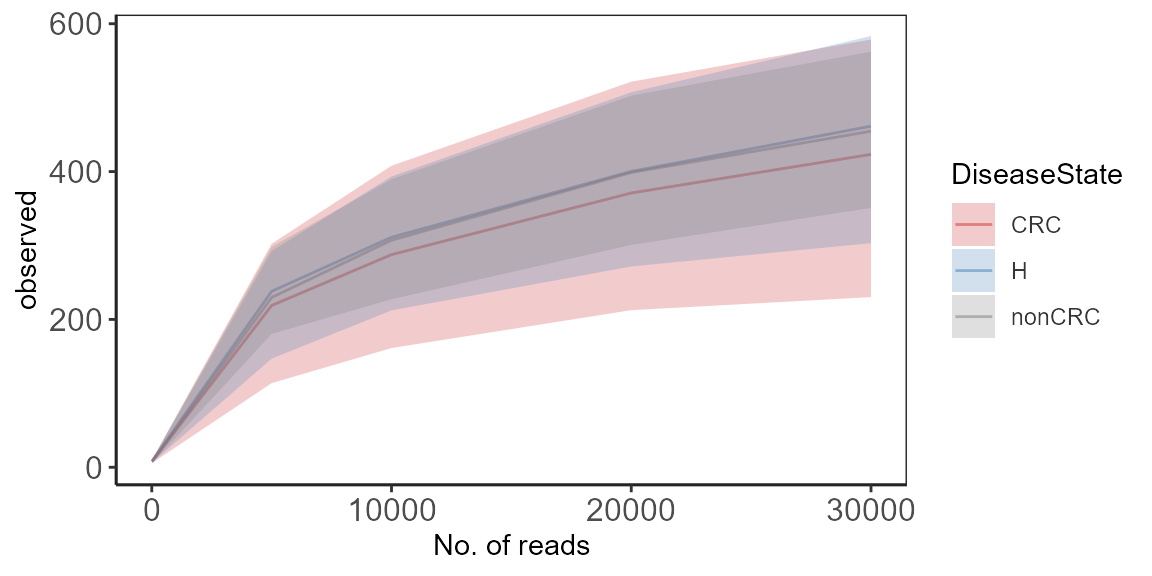
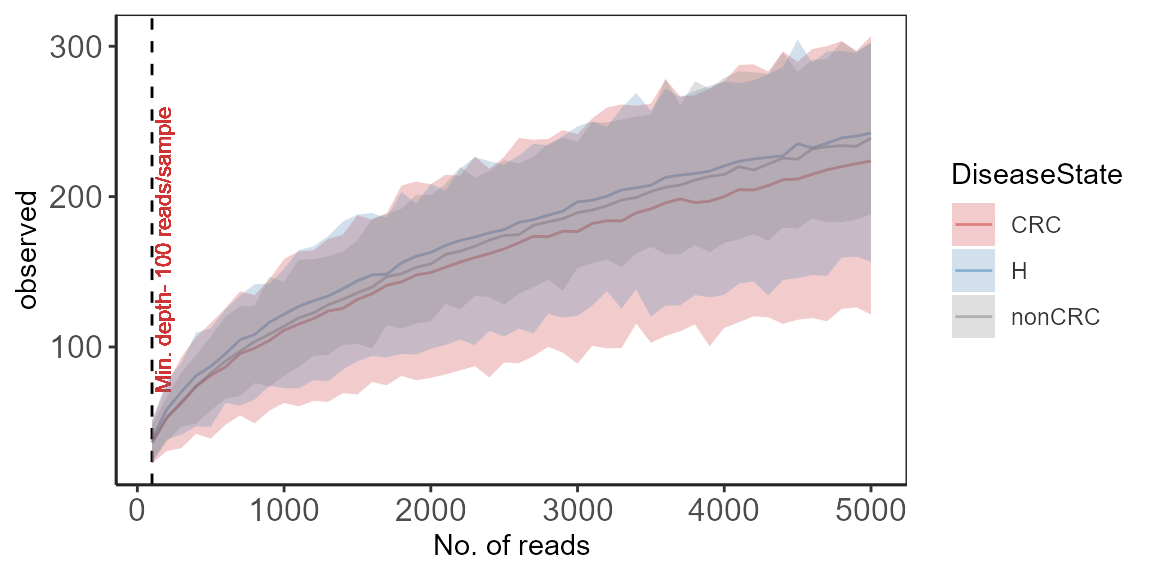
faster rarecurve

diff --git a/docs/reference/rarefy_util.html b/docs/reference/rarefy_util.html
@@ -6,7 +6,9 @@
 <meta http-equiv="X-UA-Compatible" content="IE=edge">
 <meta name="viewport" content="width=device-width, initial-scale=1.0">
 
-<title>Rarefaction curves for alpha diversity indices — plot_alpha_rcurve • microbiomeutilities</title>
+<title>#@param mat otu table rows as taxa names
+#@param names_fun either rownames or colnames
+#@param list_names vector of names that should appear in boldface — rarefy_util • microbiomeutilities</title>
 
 
 <!-- jquery -->
@@ -39,8 +41,12 @@
 
 
 
-<meta property="og:title" content="Rarefaction curves for alpha diversity indices — plot_alpha_rcurve" />
-<meta property="og:description" content="Calculates alpha diversity idenx at varying sampling units (sequencing depth)." />
+<meta property="og:title" content="#@param mat otu table rows as taxa names
+#@param names_fun either rownames or colnames
+#@param list_names vector of names that should appear in boldface — rarefy_util" />
+<meta property="og:description" content="#@param mat otu table rows as taxa names
+#@param names_fun either rownames or colnames
+#@param list_names vector of names that should appear in boldface" />
 
 
 
@@ -111,109 +117,23 @@
 <div class="row">
   <div class="col-md-9 contents">
     <div class="page-header">
-    <h1>Rarefaction curves for alpha diversity indices</h1>
-    <small class="dont-index">Source: <a href='https://github.com/microsud/microbiomeutilities/blob/master/R/plot_alpha_rcurve.R'><code>R/plot_alpha_rcurve.R</code></a></small>
-    <div class="hidden name"><code>plot_alpha_rcurve.Rd</code></div>
+    <h1>#@param mat otu table rows as taxa names
+#@param names_fun either rownames or colnames
+#@param list_names vector of names that should appear in boldface</h1>
+    <small class="dont-index">Source: <a href='https://github.com/microsud/microbiomeutilities/blob/master/R/pkg_utils.R'><code>R/pkg_utils.R</code></a></small>
+    <div class="hidden name"><code>rarefy_util.Rd</code></div>
     </div>
 
     <div class="ref-description">
-    <p>Calculates alpha diversity idenx at varying sampling units (sequencing depth).</p>
+    <p>#@param mat otu table rows as taxa names
+#@param names_fun either rownames or colnames
+#@param list_names vector of names that should appear in boldface</p>
     </div>
 
-    <pre class="usage"><span class='fu'>plot_alpha_rcurve</span>(
-  <span class='kw'>x</span>,
-  index = <span class='st'>"observed"</span>,
-  subsamples = <span class='fu'><a href='https://rdrr.io/r/base/c.html'>c</a></span>(<span class='fl'>100</span>, <span class='fl'>1000</span>, <span class='fl'>2000</span>, <span class='fl'>3000</span>, <span class='fl'>4000</span>, <span class='fl'>5000</span>),
-  lower.conf = <span class='fl'>0.025</span>,
-  upper.conf = <span class='fl'>0.975</span>,
-  group = <span class='kw'>NULL</span>,
-  linetype.main = <span class='fl'>1</span>,
-  line.opacity.main = <span class='fl'>0.5</span>,
-  linetype.type = <span class='fl'>2</span>,
-  line.opacity.type = <span class='fl'>0.25</span>,
-  type = <span class='st'>"CI"</span>,
-  label.min = <span class='fl'>TRUE</span>,
-  label.size = <span class='fl'>3</span>,
-  label.color = <span class='st'>"grey70"</span>
-)</pre>
-
-    <h2 class="hasAnchor" id="arguments"><a class="anchor" href="#arguments"></a>Arguments</h2>
-    <table class="ref-arguments">
-    <colgroup><col class="name" /><col class="desc" /></colgroup>
-    <tr>
-      <th>x</th>
-      <td><p><code>phyloseq-class</code> object</p></td>
-    </tr>
-    <tr>
-      <th>index</th>
-      <td><p>Default:: "observed",</p></td>
-    </tr>
-    <tr>
-      <th>subsamples</th>
-      <td><p>Default: c(100,1000, 2000, 3000, 4000, 5000)</p></td>
-    </tr>
-    <tr>
-      <th>lower.conf</th>
-      <td><p>Default: 0.025. If type=CI</p></td>
-    </tr>
-    <tr>
-      <th>upper.conf</th>
-      <td><p>Default: 0.975.</p></td>
-    </tr>
-    <tr>
-      <th>group</th>
-      <td><p>Default: NULL</p></td>
-    </tr>
-    <tr>
-      <th>linetype.main</th>
-      <td><p>For ggplot line type for line by group. Default: 1</p></td>
-    </tr>
-    <tr>
-      <th>line.opacity.main</th>
-      <td><p>For ggplot alpha to determine opacity for line by group. Default: 0.5</p></td>
-    </tr>
-    <tr>
-      <th>linetype.type</th>
-      <td><p>For ggplot line type for line CI or SD. Default: 2</p></td>
-    </tr>
-    <tr>
-      <th>line.opacity.type</th>
-      <td><p>For ggplot line type to determine opacity for line CI or SD. Default: 0.25</p></td>
-    </tr>
-    <tr>
-      <th>type</th>
-      <td><p>Either CI (confidence interval) or SD (Standard deviation) Default: CI</p></td>
-    </tr>
-    <tr>
-      <th>label.min</th>
-      <td><p>TRUE or FALSE. Default: TRUE</p></td>
-    </tr>
-    <tr>
-      <th>label.size</th>
-      <td><p>Label min size</p></td>
-    </tr>
-    <tr>
-      <th>label.color</th>
-      <td><p>Label min color</p></td>
-    </tr>
-    </table>
+    <pre class="usage"><span class='fu'>rarefy_util</span>(<span class='kw'>ps</span>, <span class='kw'>sample.size</span>, <span class='kw'>index</span>)</pre>
 
 
-    <h2 class="hasAnchor" id="examples"><a class="anchor" href="#examples"></a>Examples</h2>
-    <pre class="examples"><div class='input'><span class='co'>if</span> (<span class='fl'>FALSE</span>) {
-<span class='fu'><a href='https://rdrr.io/r/base/library.html'>library</a></span>(<span class='kw'>microbiomeutilities</span>)
-<span class='fu'><a href='https://rdrr.io/r/utils/data.html'>data</a></span>(<span class='st'>"zackular2014"</span>)
-<span class='kw'>p0</span> <span class='op'>&lt;-</span> <span class='kw'>zackular2014</span>
-<span class='co'># e.g. to make range of </span>
-<span class='co'># subsamples &lt;- seq(0, 5000, by=100)[-1]</span>
-<span class='kw'>p</span> <span class='op'>&lt;-</span> <span class='fu'>plot_alpha_rcurve</span>(<span class='kw'>p0</span>, index=<span class='st'>"observed"</span>, 
-lower.conf = <span class='fl'>0.025</span>, upper.conf = <span class='fl'>0.975</span>, 
-group=<span class='st'>"DiseaseState"</span>) <span class='op'>+</span> 
-<span class='fu'>scale_color_brewer</span>(palette = <span class='st'>"Paired"</span>) <span class='op'>+</span> 
-<span class='fu'>scale_fill_brewer</span>(palette = <span class='st'>"Paired"</span>)
-<span class='fu'><a href='https://rdrr.io/r/base/print.html'>print</a></span>(<span class='kw'>p</span> )
-}
-</div></pre>
+
   </div>
   <div class="col-md-3 hidden-xs hidden-sm" id="pkgdown-sidebar">
     <nav id="toc" data-toggle="toc" class="sticky-top">

diff --git a/docs/articles/microbiomeutilities.html b/docs/articles/microbiomeutilities.html
@@ -658,14 +658,17 @@ This best works with cleaned taxonomy table.</empty></p>
 <span class="kw">p0</span> <span class="op">&lt;-</span> <span class="kw">zackular2014</span>
 <span class="co"># set seed</span>
 <span class="fu"><a href="https://rdrr.io/r/base/Random.html">set.seed</a></span>(<span class="fl">1</span>)
-
-<span class="kw">subsamples</span> <span class="op">=</span> <span class="fu"><a href="https://rdrr.io/r/base/c.html">c</a></span>(<span class="fl">10</span>, <span class="fl">5000</span>, <span class="fl">10000</span>, <span class="fl">20000</span>, <span class="fl">30000</span>)
+<span class="kw">subsamples</span> <span class="op">&lt;-</span> <span class="fu"><a href="https://rdrr.io/r/base/seq.html">seq</a></span>(<span class="fl">0</span>, <span class="fl">5000</span>, by=<span class="fl">100</span>)[<span class="op">-</span><span class="fl">1</span>]
+<span class="co">#subsamples = c(10, 5000, 10000, 20000, 30000)</span>
 
 <span class="kw">p</span> <span class="op">&lt;-</span> <span class="fu"><a href="../reference/plot_alpha_rcurve.html">plot_alpha_rcurve</a></span>(<span class="kw">p0</span>, index=<span class="st">"observed"</span>, 
                        subsamples = <span class="kw">subsamples</span>,
                        lower.conf = <span class="fl">0.025</span>, 
                        upper.conf = <span class="fl">0.975</span>,
-                       group=<span class="st">"DiseaseState"</span>) 
+                       group=<span class="st">"DiseaseState"</span>,
+                       label.color = <span class="st">"brown3"</span>,
+                       label.size = <span class="fl">3</span>,
+                       label.min = <span class="fl">TRUE</span>) 
 <span class="co"># change color of line </span>
 <span class="kw">mycols</span> <span class="op">&lt;-</span> <span class="fu"><a href="https://rdrr.io/r/base/c.html">c</a></span>(<span class="st">"brown3"</span>, <span class="st">"steelblue"</span>,<span class="st">"grey50"</span>)
 
